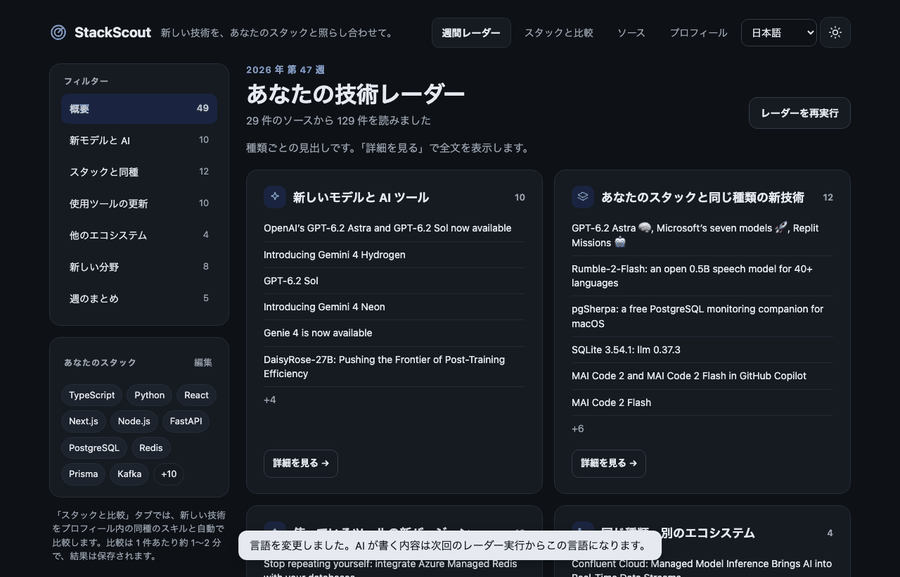
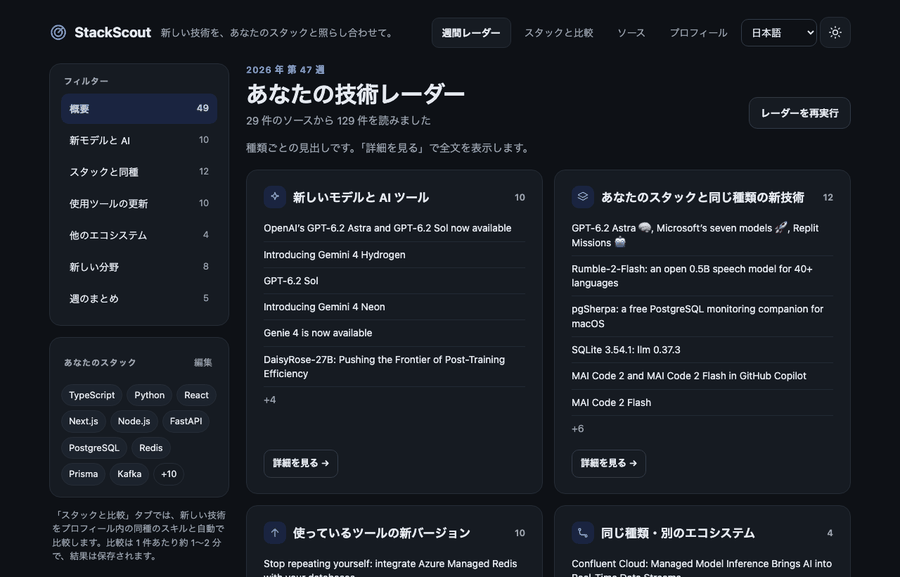
README: feature rows with text on the left, one screenshot on the right
Composite images (claims, digests, looks) keep each row to one picture;
screenshots no longer catch toasts.

Changed region(s): [[0.2489, 0.9047, 0.7467, 0.9983]]

diff --git a/scripts/screenshots.py b/scripts/screenshots.py
@@ -34,7 +34,7 @@ with sync_playwright() as p:
     page.goto(DEMO.as_uri()); page.evaluate("localStorage.setItem('ss-theme','light')"); page.reload(); page.wait_for_selector(".ovcard")
     page.evaluate("document.querySelector('.demobar')?.remove()")
     def clean():
-        page.evaluate("document.querySelector('.demobar')?.remove()")
+        page.evaluate("document.querySelector('.demobar')?.remove(); document.querySelectorAll('.toast').forEach(e => e.remove())")
 
     save(page.screenshot(), "overview.png")
     # New models & AI: the feed, then the rivals drawer
@@ -93,3 +93,31 @@ with sync_playwright() as p:
                   + msg.replace("<a ", '<a style="color:#6ab3f3" ') + '</div></div>')
     save(e.screenshot(), "digest-telegram.png")
     b.close()
+
+
+# ---- composites: one landscape image per README row (text left, image right)
+def compose(names: list[str], out: str, height: int = 820, gap: int = 24, pad: int = 24):
+    imgs = [Image.open(OUT / n).convert("RGB") for n in names]
+    imgs = [i.resize((round(i.width * height / i.height), height), Image.LANCZOS) for i in imgs]
+    canvas = Image.new("RGB", (sum(i.width for i in imgs) + gap * (len(imgs) - 1) + 2 * pad, height + 2 * pad), (243, 244, 246))
+    x = pad
+    for i in imgs:
+        canvas.paste(i, (x, pad)); x += i.width + gap
+    buf = io.BytesIO(); canvas.save(buf, "PNG"); save(buf.getvalue(), out, width=1400)
+
+
+compose(["stack-detail.png", "sources-cited.png"], "claims.png")
+compose(["digest-email.png", "digest-telegram.png"], "digests.png", height=900)
+# Two desktop shots stacked, the phone beside them: close to square, readable at half width.
+def compose_looks():
+    dark, light, phone = (Image.open(OUT / n).convert("RGB") for n in ("dark-ja.png", "light-vi.png", "mobile.png"))
+    gap, pad = 24, 24
+    col_h = dark.height + gap + light.height
+    phone = phone.resize((round(phone.width * col_h / phone.height), col_h), Image.LANCZOS)
+    canvas = Image.new("RGB", (dark.width + gap + phone.width + 2 * pad, col_h + 2 * pad), (243, 244, 246))
+    canvas.paste(dark, (pad, pad)); canvas.paste(light, (pad, pad + dark.height + gap))
+    canvas.paste(phone, (pad + dark.width + gap, pad))
+    buf = io.BytesIO(); canvas.save(buf, "PNG"); save(buf.getvalue(), "looks.png", width=1400)
+
+
+compose_looks()

diff --git a/README.md b/README.md
@@ -20,71 +20,126 @@ Keeping up is a part-time job: new models every week, new libraries, release not
 
 ## Features
 
+<table>
+<tr>
+<td width="50%" valign="top">
+
 ### 📡 Your week at a glance
 
-One page with the headlines of the week, grouped by what they mean for you: new AI models and tools, new tech of the same kind as your stack, updates to tools you already use, other ecosystems, new areas, and a roundup. Click **Details** to read each group in full.
+One page with the week's headlines, grouped by what they mean for you.
 
-<img src="docs/assets/overview.png" alt="Weekly overview: headlines grouped by type" width="100%">
+- New AI models & tools
+- New tech of the same kind as your stack
+- Updates to tools you already use
+- Other ecosystems, new areas, weekly roundup
 
-### 🤖 New AI models, compared with their strongest rivals
+Click **Details** to read a group in full.
 
-Straight from first-party channels (Anthropic, OpenAI, Google DeepMind, Gemini, Hugging Face…). Click a model and StackScout has already looked up its **3–5 strongest competitors**: what it does better, what it does worse, and which one to pick, with benchmark numbers, prices and a link behind every line.
+</td>
+<td width="50%" valign="top"><a href="docs/assets/overview.png"><img src="docs/assets/overview.png" alt="Weekly overview: headlines grouped by type"></a></td>
+</tr>
+<tr>
+<td width="50%" valign="top">
 
-<img src="docs/assets/rivals.png" alt="GPT-6.2 Astra compared with Claude Fable 5.2, Gemini 4 Carbon and others" width="100%">
+### 🤖 New AI models vs. their strongest rivals
+
+Straight from first-party channels: Anthropic, OpenAI, Google DeepMind, Gemini, Hugging Face…
+
+Click a model to see its **3–5 strongest competitors**, already researched:
+
+- what it does better, and worse
+- which one to pick, and when
+- benchmark numbers and prices, a link behind every line
+
+</td>
+<td width="50%" valign="top"><a href="docs/assets/rivals.png"><img src="docs/assets/rivals.png" alt="GPT-6.2 Astra compared with Claude Fable 5.2, Gemini 4 Carbon and others"></a></td>
+</tr>
+<tr>
+<td width="50%" valign="top">
 
 ### 🧩 Compared with your stack, automatically
 
-Every new technology of the same kind as one of your tools is compared with that tool right after the radar runs, grouped by your skills. Each one gets a verdict, **adopt, trial, watch or skip**, plus what fits you and what doesn't. Use **⋯** to compare it with any other tool in your profile.
+Right after the radar runs, every new technology of the same kind as one of your tools is compared with that tool, grouped by your skills.
 
-<img src="docs/assets/vs-stack.png" alt="New tools grouped by the skill they compete with, each with a verdict" width="100%">
+- a verdict: **adopt, trial, watch or skip**
+- pros and cons at a glance, details one click away
+- **⋯** compares it with any other tool in your profile
+
+</td>
+<td width="50%" valign="top"><a href="docs/assets/vs-stack.png"><img src="docs/assets/vs-stack.png" alt="New tools grouped by the skill they compete with, each with a verdict"></a></td>
+</tr>
+<tr>
+<td width="50%" valign="top">
 
 ### 🔗 Every claim has a source
 
-Each comparison shows the verdict and how confident it is, a short *for you* note based on your stack, what is new, at most 3 pros and 3 cons, and the numbered sources behind them. Rules enforced in code, not left to the AI:
+Each comparison shows the verdict and its confidence, a *for you* note, what is new, at most 3 pros and 3 cons, and the numbered sources.
 
-- a pro or con without a valid link is dropped;
-- fewer than 2 sources means *"not enough data yet"*;
-- independent benchmarks and hands-on reports are preferred and labelled; with no independent source, confidence can't be *high*.
+Enforced in code, not left to the AI:
 
-<table>
-<tr>
-<td width="50%"><img src="docs/assets/stack-detail.png" alt="SQLite vs PostgreSQL: verdict, fit for you, what is new, pros"></td>
-<td width="50%"><img src="docs/assets/sources-cited.png" alt="Cons and the numbered sources, independent ones labelled"></td>
+- a claim without a valid link is dropped
+- fewer than 2 sources → *"not enough data yet"*
+- independent benchmarks preferred and labelled
+
+</td>
+<td width="50%" valign="top"><a href="docs/assets/claims.png"><img src="docs/assets/claims.png" alt="SQLite vs PostgreSQL: verdict, fit, pros, cons and numbered sources"></a></td>
 </tr>
-</table>
+<tr>
+<td width="50%" valign="top">
 
 ### 📬 The digest, where you read
 
-Every week, in your language, on any of: **Telegram, email, Slack, Discord**, or any **webhook** (n8n, Zapier, Make…). Under each item: the verdict against your tool, or the rivals of a new model.
+Every week, in your language, on any of:
 
-<table>
-<tr>
-<td width="50%"><b>Email</b><br><img src="docs/assets/digest-email.png" alt="Weekly digest by email"></td>
-<td width="50%"><b>Telegram</b><br><img src="docs/assets/digest-telegram.png" alt="Weekly digest on Telegram"></td>
+- **Telegram**
+- **Email**
+- **Slack** and **Discord**
+- any **webhook** (n8n, Zapier, Make…)
+
+Under each item: the verdict against your tool, or the rivals of a new model.
+
+</td>
+<td width="50%" valign="top"><a href="docs/assets/digests.png"><img src="docs/assets/digests.png" alt="The weekly digest by email and on Telegram"></a></td>
 </tr>
-</table>
+<tr>
+<td width="50%" valign="top">
 
-### 👤 Your profile in your own words, private by design
+### 👤 Your profile, in your own words
 
-Type what you use, typos and all (*"c#, entity framwork, postgres, k8s"*), or generate it from your code or CV with the included prompt. AI turns it into canonical names and levels; you confirm before anything is saved. **Only technology names and levels are stored**: no project names, no employer, nothing about your work.
+Type what you use, typos and all (*"c#, entity framwork, postgres, k8s"*), or generate it from your code or CV with the included prompt.
 
-<img src="docs/assets/profile.png" alt="Skill profile grouped by category, with levels" width="100%">
+- AI normalises names and levels; you confirm before saving
+- **private by design**: only technology names and levels are stored, nothing about your projects or employer
+
+</td>
+<td width="50%" valign="top"><a href="docs/assets/profile.png"><img src="docs/assets/profile.png" alt="Skill profile grouped by category, with levels"></a></td>
+</tr>
+<tr>
+<td width="50%" valign="top">
 
 ### 📰 Sources that matter, picked for your stack
 
-About 60 curated, live feeds. First-party AI channels are always on, the official blogs and release feeds of *your* technologies switch on by themselves, and community sources (Hacker News, trending GitHub repos, Lobsters…) are one click away. Add any blog, RSS feed or GitHub repo.
+About 60 curated, live feeds.
 
-<img src="docs/assets/sources.png" alt="Source list with first-party and official feeds" width="100%">
+- first-party AI channels: always on
+- official blogs and release feeds of *your* technologies: on automatically
+- community sources (Hacker News, trending GitHub repos, Lobsters…): one click
+- add any blog, RSS feed or GitHub repo
+
+</td>
+<td width="50%" valign="top"><a href="docs/assets/sources.png"><img src="docs/assets/sources.png" alt="Source list with first-party and official feeds"></a></td>
+</tr>
+<tr>
+<td width="50%" valign="top">
 
 ### 🌏 5 languages, light and dark, on your phone
 
-English, Tiếng Việt, 中文, 日本語, 한국어: the interface, the AI-written summaries and comparisons, the digests and the Telegram bot.
+English, Tiếng Việt, 中文, 日本語, 한국어 for the interface, the AI-written summaries and comparisons, the digests and the Telegram bot.
 
-<table>
-<tr>
-<td width="40%"><img src="docs/assets/dark-ja.png" alt="Dark theme in Japanese"></td>
-<td width="40%"><img src="docs/assets/light-vi.png" alt="Light theme in Vietnamese"></td>
-<td width="20%"><img src="docs/assets/mobile.png" alt="Rival comparison on a phone"></td>
+Light and dark themes; comparisons open as a bottom sheet on phones.
+
+</td>
+<td width="50%" valign="top"><a href="docs/assets/looks.png"><img src="docs/assets/looks.png" alt="Dark theme in Japanese, light theme in Vietnamese, and a phone"></a></td>
 </tr>
 </table>
 
